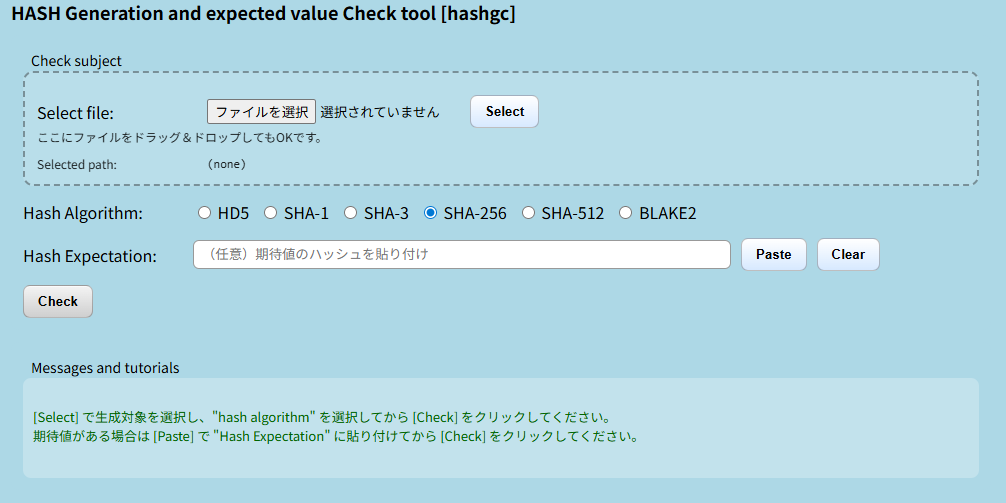
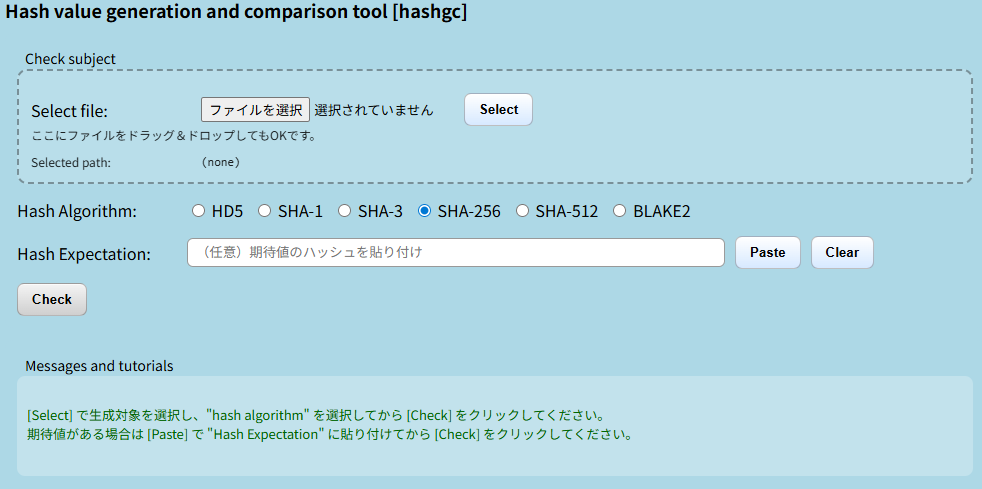
PGM name correction

diff --git a/hashgc_fa/templates/index.html b/hashgc_fa/templates/index.html
@@ -143,7 +143,7 @@
 
   <body>
     <div class="wrap">
-    <h1 class="title">HASH Generation and expected value Check tool [hashgc]</h1>
+    <h1 class="title">Hash value generation and comparison tool [hashgc]</h1>
 
     <form id="form" class="frame" action="/check" method="post" enctype="multipart/form-data" autocomplete="off">
       <div class="legend">Check subject</div>
